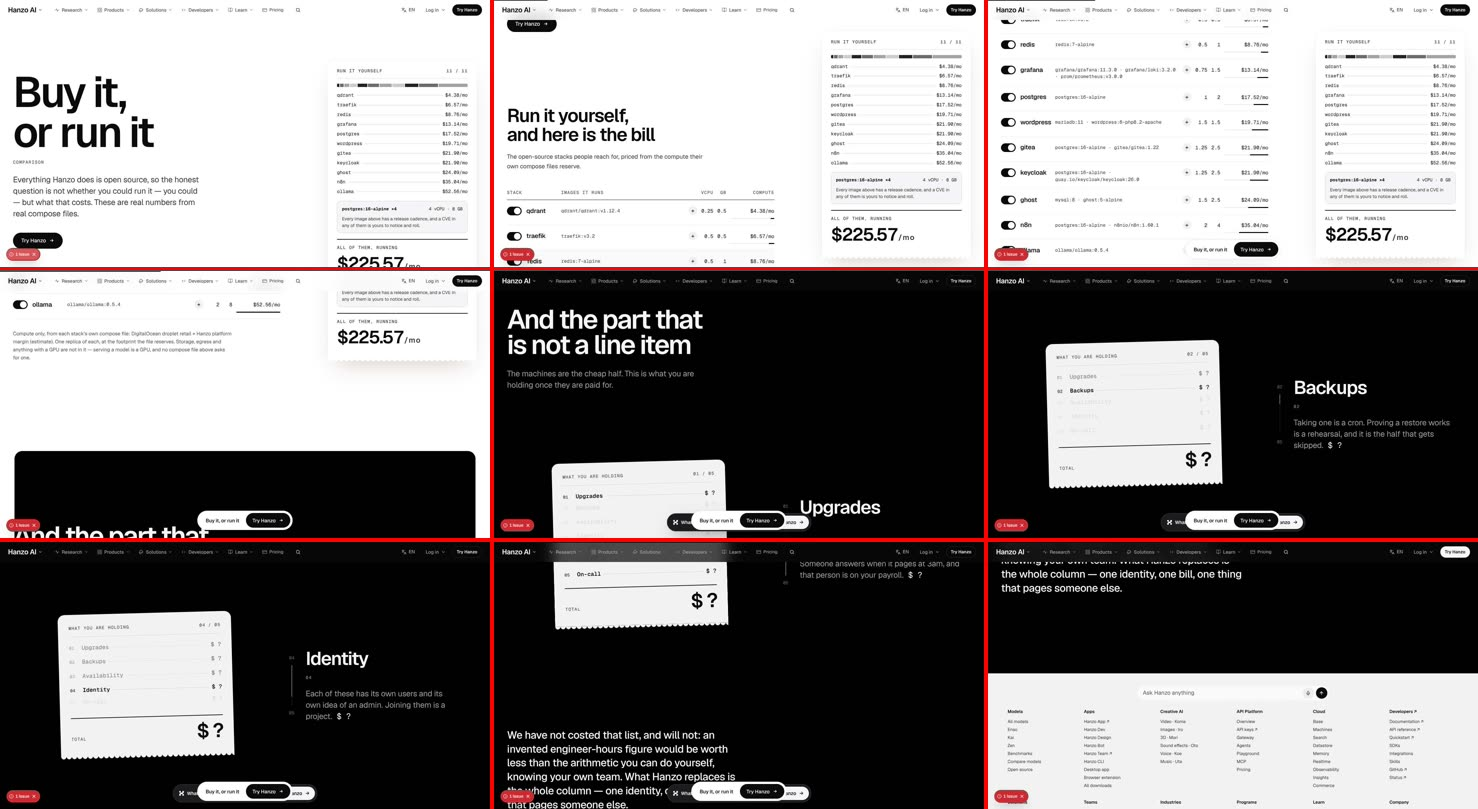
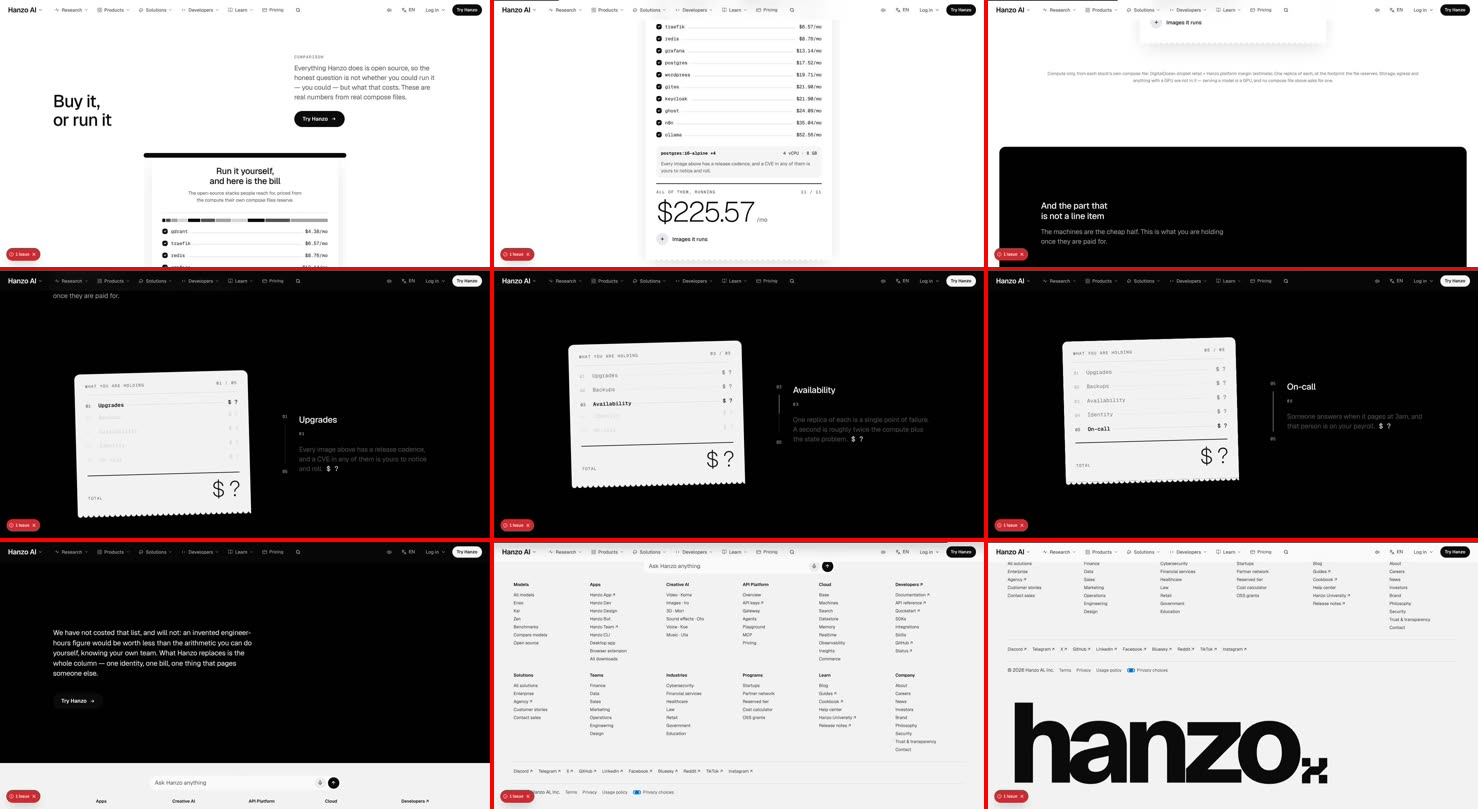
review: /comparison 8/10 (third walk, post-system)
Claude-Session: https://claude.ai/code/session_01DqUybDEA5FZ4ZbAGVya4QA

diff --git a/docs/review/comparison.md b/docs/review/comparison.md
@@ -1,40 +1,41 @@
 # /comparison — James-eye review
 
 Verdict: 8/10
-First complaint: "On the second screen the same eleven prices are listed twice, side by side. Show them once."
+First complaint: "The headline's small and off to the left with a big empty patch beside it, and the total, the whole point, is below the fold on my laptop."
 
-Walked 7 Nov, page file at `812e080` (`components/pages/Comparison.jsx`, `Comparison.css`), on the preview of main plus the Proof branch. Filmed moving at 1470×801 and 375×812 (wheel and finger scroll, dwell on every screen, hover and press on desktop, taps on phone), plus reduced motion and JS off. Stills: `review/comparison/desktop-walk.jpg`, `review/comparison/phone-walk.jpg`. The machine was overloaded, so motion is judged from frames.
+Walked 7 Nov 15:16 (third walk, after the shared system landed), page file at `18823f5f` (`components/pages/Comparison.jsx`, `Comparison.css`), unchanged during the walk. Judged by `docs/JAMES.md` and `docs/MASTER.md`. Filmed moving at 1470×801 and 375×812 (wheel and finger scroll, dwell on every screen, hover and press on desktop, taps on phone), plus reduced motion and JS off. Stills: `review/comparison/desktop-walk.jpg`, `review/comparison/phone-walk.jpg`. The machine was overloaded, so motion is judged from frames.
 
 ## What works
-- **The headline reads like a logo:** "Buy it, or run it" at 128px, line height 0.92, cut in by line. "Comparison" sits under it as a caption, not above.
-- **One live object on a quiet stage:** a paper receipt that prints itself line by line after arrival and rolls its total, $225.57/mo, digit by digit. It is greys and ink only.
-- **The stack switches drive it:** take a stack out and the pinned receipt re-prints and the total rolls to the new figure. That is "try it before you believe it", built from Hanzo's own figures.
-- **A dark room that tells a story:** five duties (Upgrades, Backups, Availability, Identity, On-call), one per screen. Each is printed on a receipt that cannot price it ("$ ?"), and the receipt tilts in as the last goes out. Then Hanzo's closing line.
-- **It is honest:** the method sentence (compute only, from each compose file, DigitalOcean retail plus Hanzo margin, estimate) sits right under the table.
-- **One ask, everywhere:** "Try Hanzo" in the hero, a desktop pill after it, and a phone thumb bar after the "All of them, running $225.57/mo" bar that follows the thumb through the table.
-- **Clean numbers:** parity text 63/63; CLS 0.0003; reduced motion leaves 0 running animations; hover lifts, and press scales to .98.
+- **The bill is the object.** A paper slip feeds out of a black slot under the hero and prints its eleven stacks line by line.
+- **Every line is a switch.** Take a stack out and the total rolls to the new figure ("Your selection 10 / 11, $221.19/mo"). The price list now shows once, not twice.
+- **Scale has rhythm:** h1 at rest (52px), the total as the one big figure of its screen, and the dark room's "$ ?" at figure size.
+- **The dark room is still the best moment on the page.** A tilted receipt lists the five things you hold (Upgrades, Backups, Availability, Identity, On-call). Each comes in beside its sentence as the last goes out, each priced "$ ?". Then Hanzo's closing line and the ask.
+- **Greys and ink only;** `taste.py` passes. Nothing floats over content: the old total pill is gone.
+- **One ask, "Try Hanzo":** in the hero and again closing the dark room.
+- **The checks pass:** parity 63/63; CLS 0; reduced motion 0 running animations; JS off shows all 24 text blocks; press scales to .97; the switches answer tap and hover.
 
 ## The 11 answers
-1. **Sells in 5 seconds, moves within 1 second?** Yes. Big question, one ask, and a receipt already printing.
-2. **One in, one out, or a document?** Yes in the dark room. The table section is a long list of 11 rows.
-3. **A real visual object in every section?** Yes: the receipt, the switches, the duty receipts.
-4. **One ask, sticky after the hero?** Yes, at both widths. On desktop the site header's solid "Try Hanzo" also shows, but it is the same label.
-5. **Every hover and press answers, no jumps?** Yes. The switches spring and the plus turns. On phone, when one row's images open, the rows below move, so a quick second tap can land on the wrong row.
-6. **Overlaps, font swap or layout shift?** None seen at either width. JS off: 10 of 23 text blocks stay invisible.
-7. **Which reference, is its motion there?** Apple's pinned chapter (the receipt pinned beside the switches, the duty chapters) and osply's editorial type. Both are there.
-8. **Different from neighbours?** Yes in its idea (the bill) and its dark room. Its first screen is the same frame as /compare and /security: white page, headline left, card right.
-9. **18 areas (PLAN-COMPONENTS)?** Mostly covered, see below. No `docs/coverage/comparison.md`.
-10. **Banned tells?** None found. 0 UI hues, no eyebrow over a headline, no gradient text.
-11. **Copy untouched?** Yes.
+1. **Sells in 5 seconds, moves within 1 second?** Yes on words, and the slip feeds once the page arrives. After the feed, the first screen is still until you touch it.
+2. **One in, one out, or a document?** Yes: the hero, the bill, then five duties one at a time.
+3. **A real visual object in every section?** Yes: the slip and the duty receipt.
+4. **One ask, sticky after the hero?** In the hero and the dark room. After the hero, the header and phone bar carry "Try Hanzo" (shared).
+5. **Every hover and press answers, no jumps?** Yes.
+6. **Overlaps, font swap or layout shift?** None. The "1 Issue" hydration badge is shared.
+7. **Which reference, is its motion there?** Apple's pinned chapter in the dark room, and osply's calm type. Both there.
+8. **Different from neighbours?** Yes. A printed bill and unpriced receipts are its own; nothing else in Proof uses paper.
+9. **18 parts (MASTER card)?** 18 of 18 `Done here:` lines, checked below.
+10. **Banned tells?** None. "COMPARISON" is a caption over the lede, not over a headline.
+11. **Copy untouched?** Yes. Every price and the method note (compute only, DigitalOcean retail plus Hanzo margin, estimate) are Hanzo's.
 
-## Missing from the 18 areas
-- **2.3 Page ending:** the dark room ends on a paragraph, then the footer. There is no closing Band repeating "Try Hanzo" as the one solid button; only the pill carries it.
-- **2.6 Content:** on desktop, screens 2 and 3 show the 11 stacks twice, as switches on the left and receipt lines on the right.
-- **2.17 States:** most text is hidden with JS off. The receipt needs a printed final state in the server HTML.
-- **2.18 Measurement:** no `Persona:` / `Goal:` / `CTA:` lines, no `data-cta`.
+## Card check (docs/coverage/comparison.md)
+- 18 of 18 filled.
+- Spot-checked as true: part 3 (52px h1 on the 8/5 split, slip feeding within 1 s, JS off 0 hidden), part 6 (each price once), part 7 (the total as the one big moment), part 11 (no floating pill) and part 17 (empty selection shows $0.00/mo).
 
-## Fixes (in order)
-1. **Show the list once.** While the switches are on screen, shrink the receipt to its total, the bar and the "postgres ×4" note, and let it print the lines only in the hero. Or drop the prices from the switch rows. One column of prices per screen.
-2. **End on the ask.** After "We have not costed that list…", close the dark room with "Try Hanzo" as one solid button in Hanzo's words, so the last screen repeats the hero.
-3. **Server-render the final receipt.** Print the full receipt and total in the HTML, so JS off and slow phones see the finished bill, and let the print animation replay over it.
-4. **Hold the rows still on phone.** When a row's images open, open them in a sheet or keep the row heights fixed, so the next row does not jump under the thumb.
+## What is missing
+- **Part 3:** the first screen has no big thing. The h1 is at rest size, the slip shows its title and three lines, and the total sits about 700px below the fold.
+- **Part 9:** after the feed, nothing in the hero moves by itself.
+
+## Fixes
+1. **Put the total on the first screen.** Show the slip's foot ("All of them, running $225.57/mo") as soon as it feeds, pinned under the slot while the lines print above it. Or shorten the feed so the total lands above the fold at 1470×801. That is the one big thing for the hero.
+2. **Close the empty patch.** Bring the slip up beside the h1 on the 8/5 split (h1 and lede left, slip right, aligned to the bottom), so the first screen has one focal object, not a gap.
+3. **Keep the slip alive at rest.** For example, the line under the pointer lifts and shows its vCPU and GB, or the "11 / 11" counter ticks as lines finish printing, so the hero still answers after the feed.
